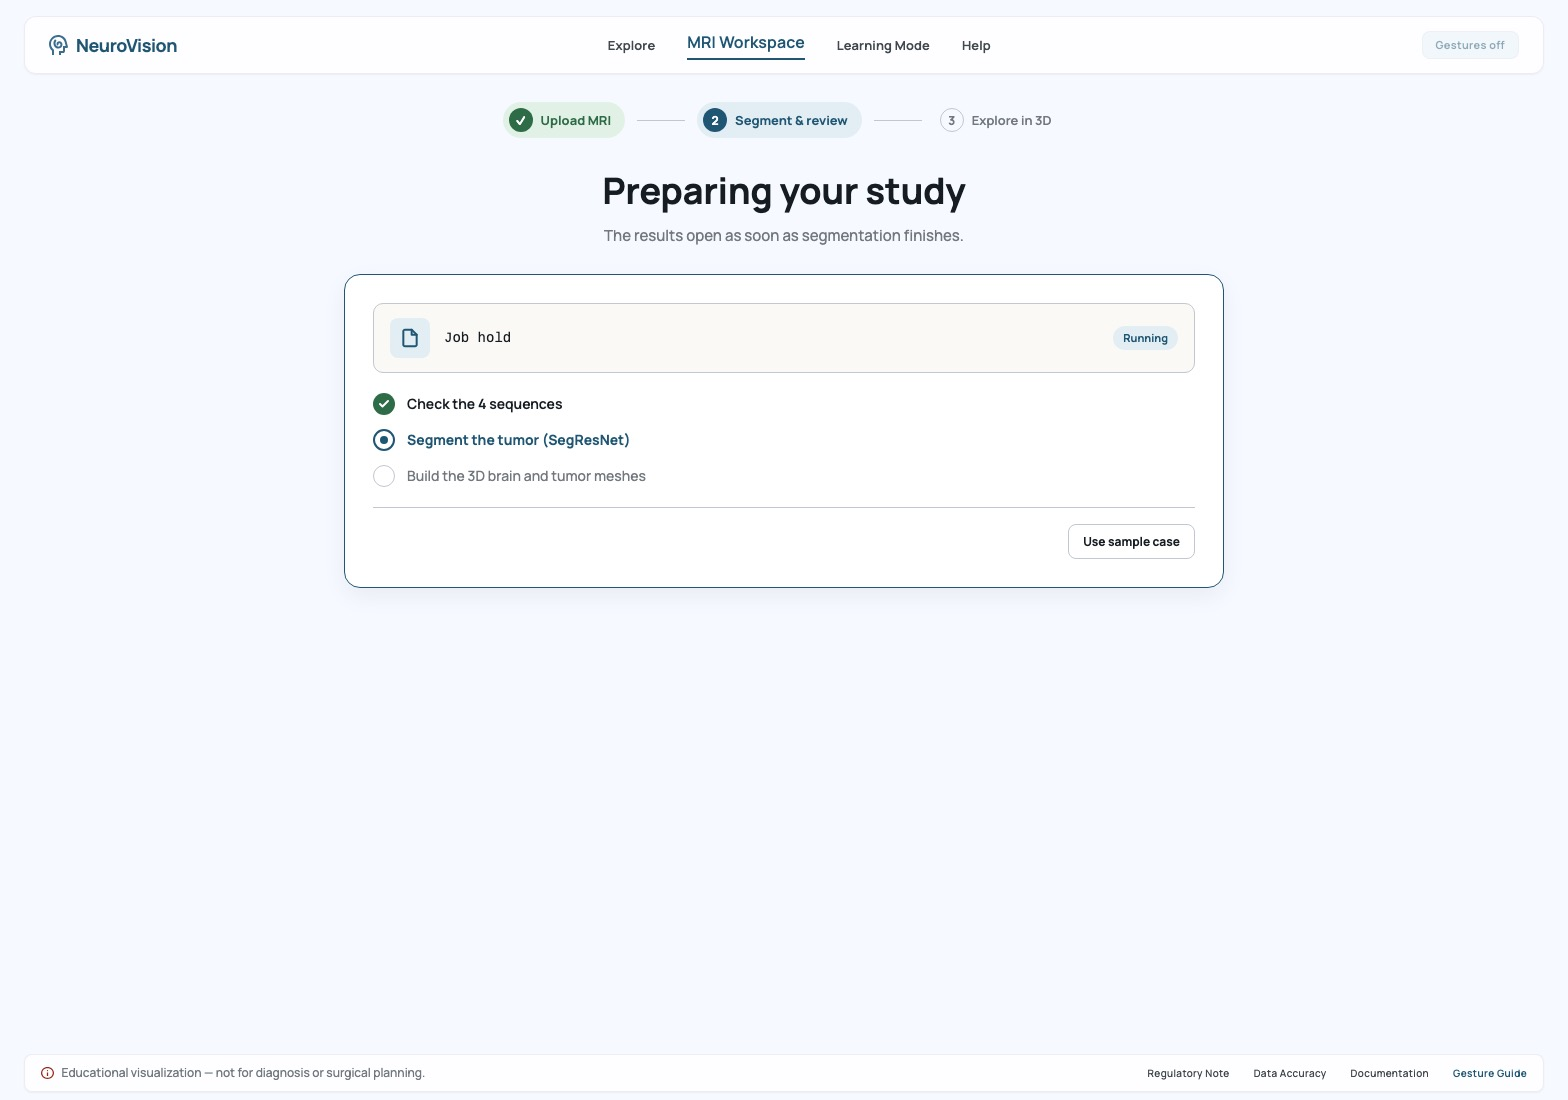
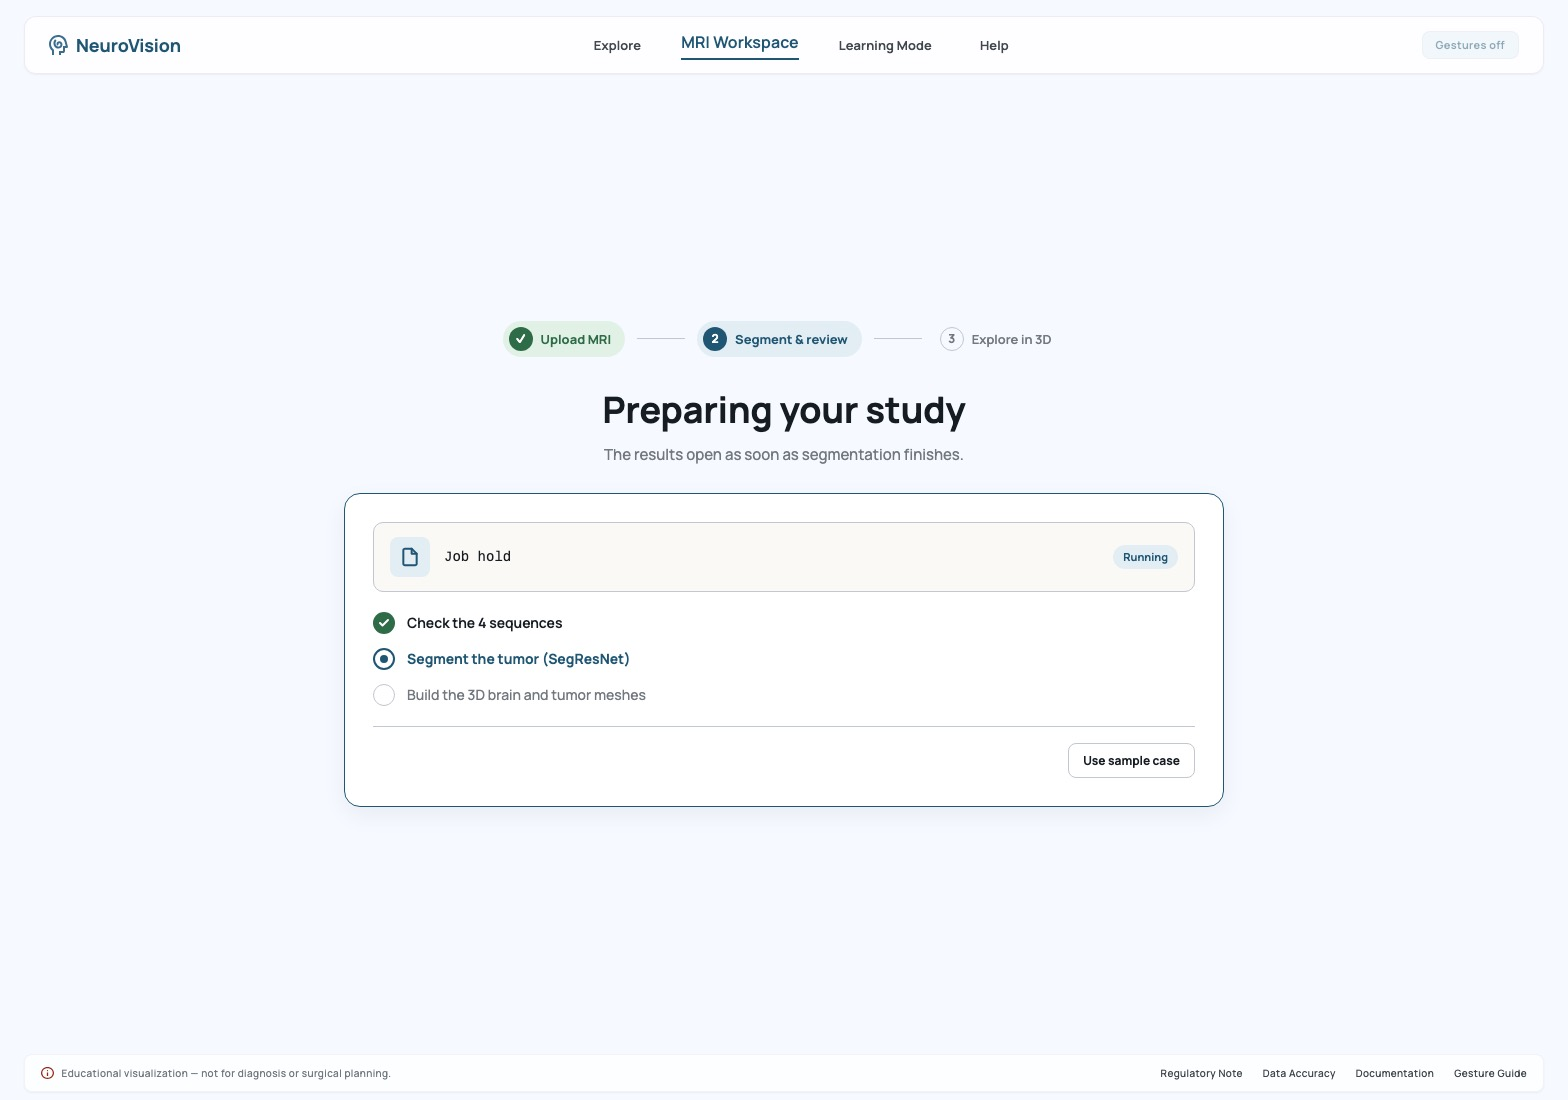
style(processing): center the stepper and card on frame 44:99
The short processing page was top-aligned. Only step 2 fills the viewport and centers that stack.

Claude-Session: https://claude.ai/code/session_01K7M6bvo7e35QCzCUTFpjvw

diff --git a/frontend/src/components/FlowPage.tsx b/frontend/src/components/FlowPage.tsx
@@ -6,9 +6,9 @@ import css from './FlowPage.module.css';
 
 export function FlowPage({ step, title, lede, children }: { step: 1 | 2 | 3; title: string; lede: string; children: ReactNode }) {
   return (
-    <div className={css.page}>
+    <div className={step === 2 ? `${css.page} ${css.fill}` : css.page}>
       <TopNavBar active="workspace" />
-      <main className={css.column}>
+      <main className={step === 2 ? `${css.column} ${css.centered}` : css.column}>
         <FlowStepper step={step} />
         <header className={css.heading}>
           <h1>{title}</h1>

diff --git a/frontend/src/components/FlowPage.module.css b/frontend/src/components/FlowPage.module.css
@@ -16,6 +16,14 @@
   gap: 28px;
 }
 
+.fill { height: 100%; }
+
+.centered {
+  justify-content: safe center;
+  padding-top: 28px;
+  padding-bottom: 28px;
+}
+
 .heading { display: flex; flex-direction: column; align-items: center; gap: 10px; text-align: center; }
 .heading h1 { margin: 0; color: var(--nv-text); font-size: 36px; font-weight: 700; line-height: normal; }
 .heading p { margin: 0; max-width: 640px; color: var(--nv-text-3); font-size: 15px; font-weight: 500; line-height: normal; }
